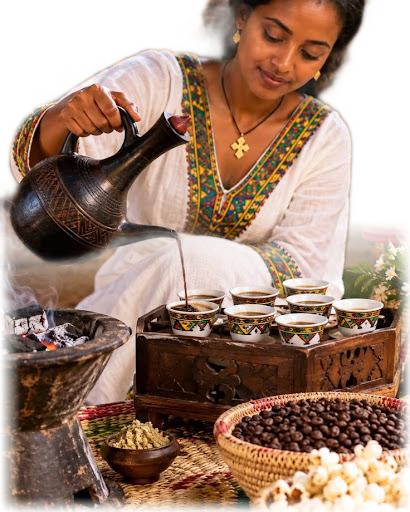
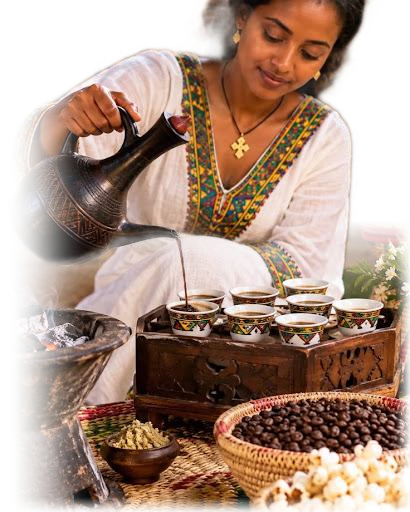
Refine hero: dissolve image seamlessly into background and restore text height

Changed region(s): [[0.0, 0.1875, 0.2049, 1.0]]

diff --git a/src/components/Hero.tsx b/src/components/Hero.tsx
@@ -40,7 +40,7 @@ export default function Hero() {
 
       {/* Right Column: Isolated Visual Showcase directly on #FAF8F3 (Transparent, no card, no borders, no shadow) */}
       <div className="lg:col-span-5 order-1 lg:order-2 flex items-center justify-center lg:justify-end">
-        <div className="relative w-full max-w-[380px] sm:max-w-[420px] lg:max-w-[460px] aspect-[410/512] flex items-center justify-center">
+        <div className="relative w-full max-w-[340px] sm:max-w-[370px] lg:max-w-[385px] max-h-[460px] aspect-[410/512] flex items-center justify-center">
           {/* eslint-disable-next-line @next/next/no-img-element */}
           <img
             alt="Traditional Ethiopian Coffee Ceremony"

diff --git a/src/app/page.tsx b/src/app/page.tsx
@@ -19,7 +19,7 @@ export default function Home() {
       <Header />
 
       {/* Main Content Container with Warm Porcelain Base */}
-      <main className="flex-1 w-full pt-20 sm:pt-24 md:pt-28 pb-28 md:pb-20 bg-surface-cream">
+      <main className="flex-1 w-full pt-16 sm:pt-20 md:pt-24 pb-28 md:pb-20 bg-surface-cream">
         <div className="max-w-7xl mx-auto px-4 sm:px-6 lg:px-8 flex flex-col gap-14 sm:gap-20 md:gap-28">
           <Hero />
           <About />
